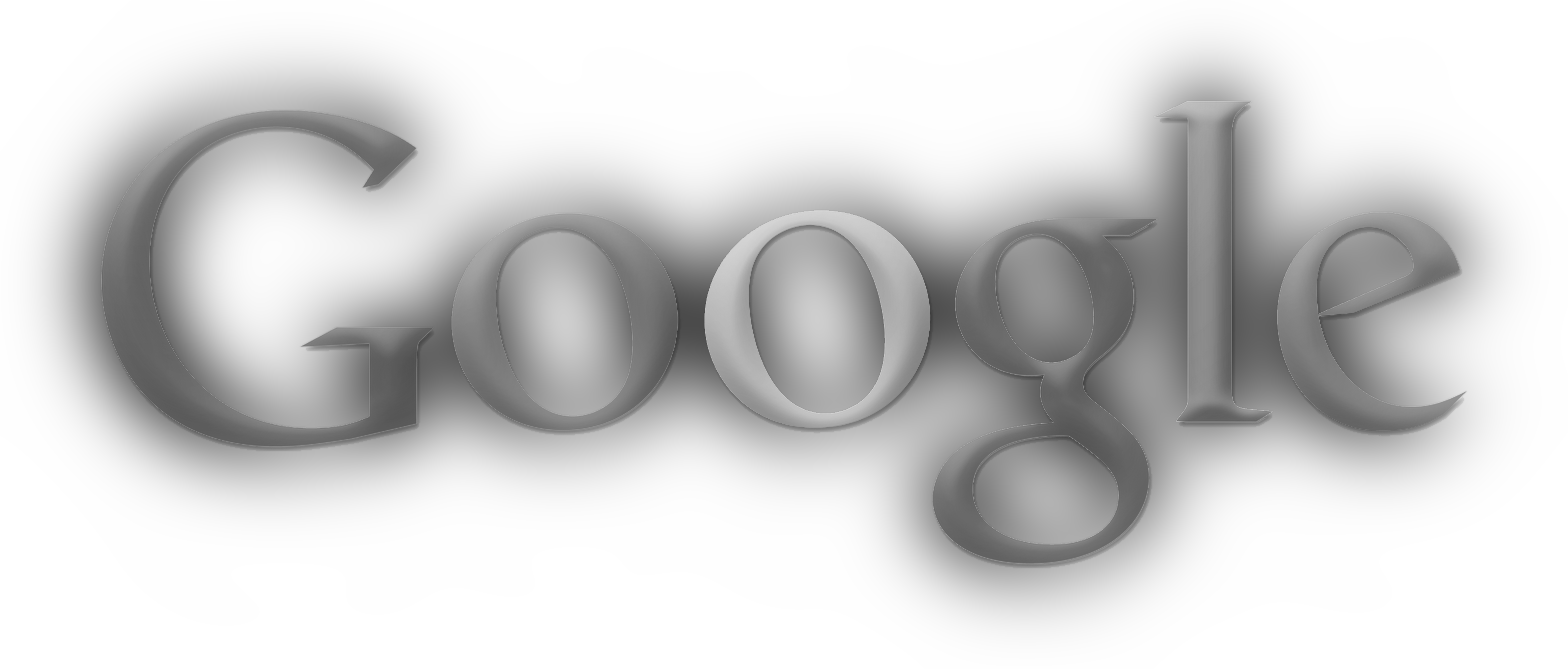
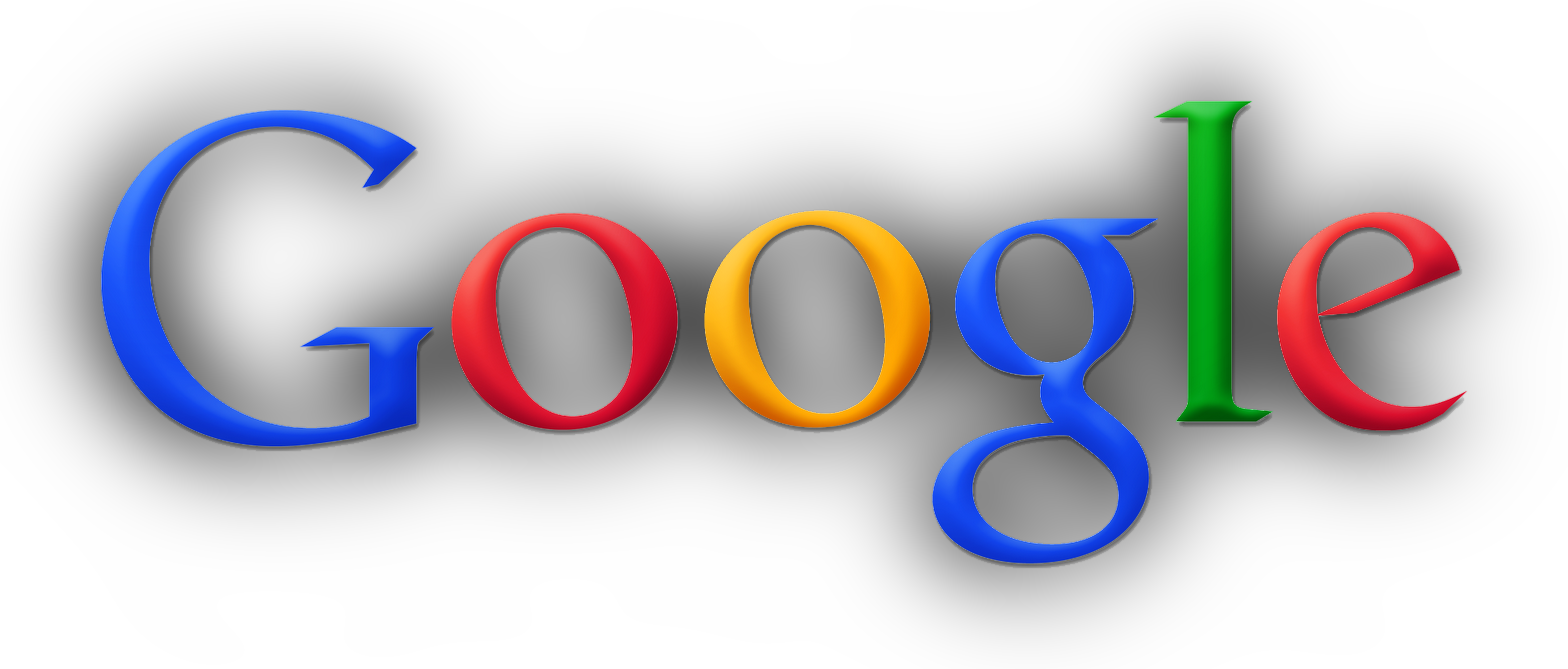
Added shadow to map view GMaps watermark

Changed region(s): [[0.0625, 0.1495, 0.9375, 0.867]]

diff --git a/replace.js b/replace.js
@@ -299,8 +299,8 @@ function SpecialHpLogo() {
 			break;
 		case "maps":
 			DebugLog("[Maps] Running case.");
-			document.querySelectorAll(".watermark")[0].src = logoUrl;
-			document.querySelectorAll(".watermark")[1].src = browser.runtime.getURL('resources/maps_watermark.png');
+			document.querySelectorAll(".watermark")[0].src = browser.runtime.getURL('resources/maps_watermark.png');
+			document.querySelectorAll(".watermark")[1].src = browser.runtime.getURL('resources/maps_watermark_mono.png');
 			RunWhenReady([".lmygoc"], function(loadedElement) { // Hamburger menu logo isn't loaded 'till the user clicks it so we wait
 				document.querySelector(".lmygoc").src = browser.runtime.getURL('resources/maps.png');
 			});
